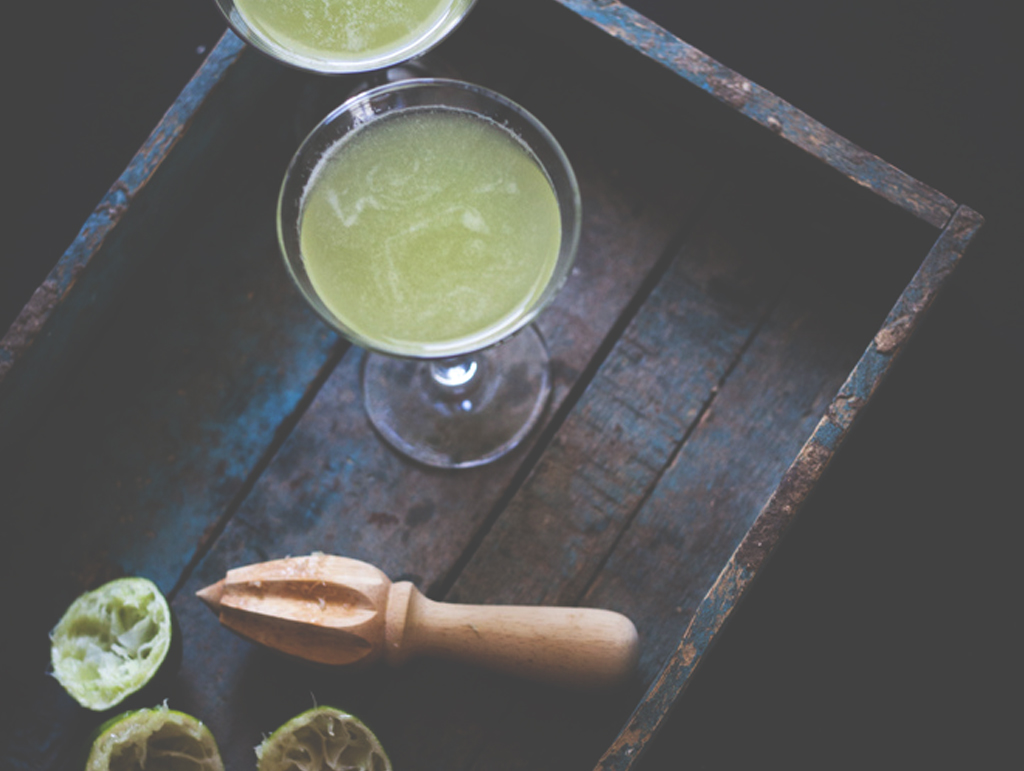
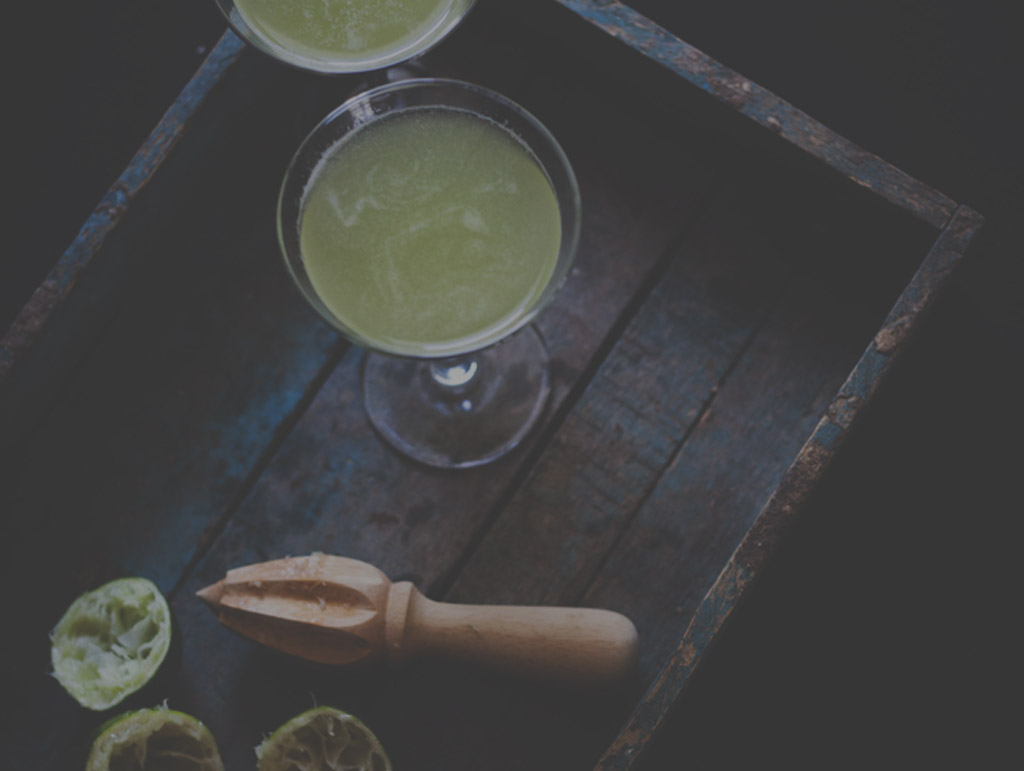
updates

diff --git a/app/assets/stylesheets/application.css.scss b/app/assets/stylesheets/application.css.scss
@@ -58,14 +58,15 @@ body {
 #backdrop {
 	position:relative;
 	width:100%;
-	background-image:image-url("idx_first_5.jpg");
+	background-image:image-url("idx_first_4.jpg");
 	background-size:cover;
+	background-position:0px -290px;
 }
 .container {
 	max-width:1000px !important;
 }
 .jumbotron {
-	background:rgba(0,0,0,0.5) !important;
+	background:rgba(0,0,0,0.4) !important;
 	text-align:center;
 	padding:0 30px 100px !important;
 	.container {position:relative;}
